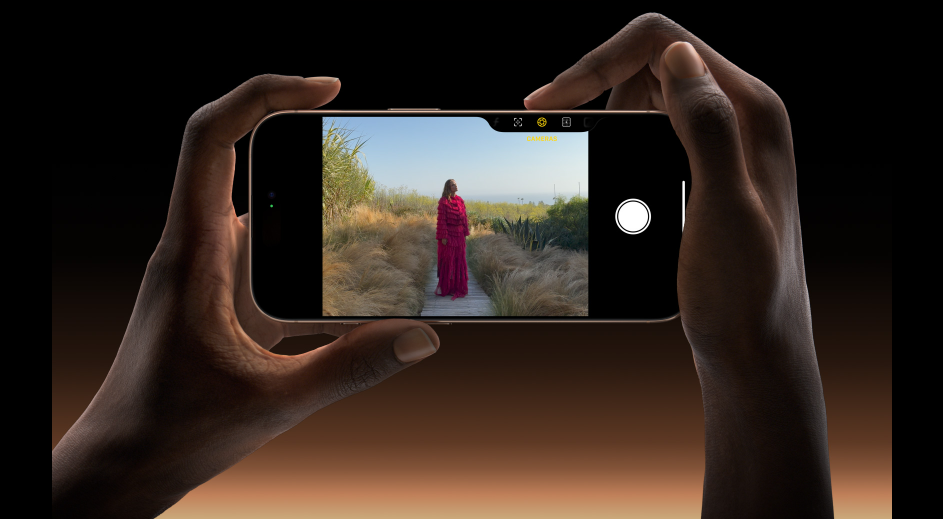
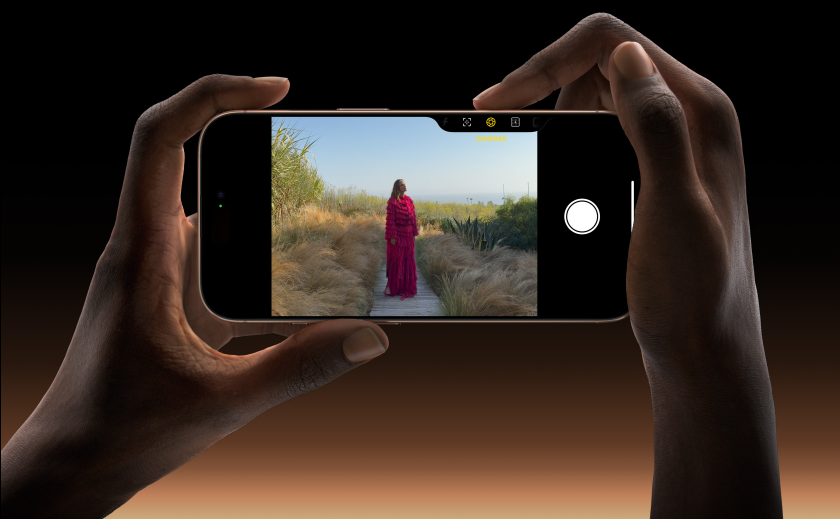
finished th camera control section

Changed region(s): [[0.0, 0.0, 1.0, 1.0], [0.1238, 0.7707, 0.3405, 1.0]]

diff --git a/src/components/CameraControl.jsx b/src/components/CameraControl.jsx
@@ -1,7 +1,128 @@
-import React from "react";
+import { useState } from "react";
+import gsap from "gsap";
+import { FaPlus } from "react-icons/fa6";
+import { IoIosArrowBack, IoIosArrowForward } from "react-icons/io";
+import { cameracontrolImg } from "../utils";
+import { cameraControlSlides } from "../constants";
 
 const CameraControl = () => {
-	return <div>CameraControl</div>;
+	const [imgId, setImgId] = useState(1);
+
+	const handleMove = (i) => {
+		console.log({ imgId, index: i });
+		setImgId(i);
+		gsap.to("#divSlider", {
+			transform:
+				window.innerWidth < 760
+					? `translateX(${-105 * i}%)` // mobile
+					: window.innerWidth < 1200
+					? `translateX(${-102 * i}%)` // tablet
+					: `translateX(${-100 * i}%)`, // laptop
+			duration: 1,
+			ease: "power2.inOut",
+		});
+		console.log({ imgId, index: i });
+	};
+	return (
+		<section className="relative w-full bg-black py-8">
+			<div className="flex justify-center flex-col w-full items-center text-gray-100 text-5xl font-bold lg:text-7xl">
+				<h3>Take total</h3>
+				<h1 className="text-shadow text-center flex items-center justify-center text-white font-normal max-w-[600px]">
+					Camera Control.
+				</h1>
+			</div>
+			<div className="w-full mb-8 mt-20">
+				<img
+					src={cameracontrolImg}
+					alt="camera-control"
+					className="w-full object-cover"
+				/>
+			</div>
+			<div className="text-gray w-9/12 mx-auto flex flex-col justify-between items-start gap-8 my-16 font-semibold text-xl md:flex-row md:gap-24 lg:gap-48">
+				<p className="">
+					Now you can take the perfect photo or video in record time. Camera
+					Control gives you an
+					<span className="font-bold text-white">
+						{" "}
+						easier way to quickly access camera tools.
+					</span>{" "}
+					Simply slide your finger to adjust camera functions like exposure or
+					depth of field, and toggle through each lens or use digital zoom to
+					frame your shot — just how you like it.
+				</p>
+				<p>
+					Later this year, Camera Control will introduce a two-stage shutter
+					that lets you{" "}
+					<span className="text-white font-bold">
+						{" "}
+						automatically lock focus and exposure
+					</span>{" "}
+					with a light press — so you can reframe your shot without losing focus
+					on your subject.
+				</p>
+			</div>
+			<div className="w-full mx-auto flex items-center justify-between gap-4 overflow-x-auto my-12 no-scrollbar relative">
+				{cameraControlSlides.map((slide, i) => (
+					<div
+						id="divSlider"
+						key={i}
+						className={`xl:w-[35vw] h-[650px] max-sm:w-[85vw] max-sm:h-[550px] md:w-[60vw] md:h-[690px] lg:w-[50vw] bg-black shrink-0 rounded-3xl overflow-hidden flex items-center relative ${
+							i === 0 && "max-sm:ml-8 md:ml-32 lg:ml-48"
+						}`}
+					>
+						<img
+							src={slide.img}
+							alt={`slide ${slide.id}`}
+							className="absolute top-0 xl:w-full lg:h-[92vh] lg:w-[50vw] max-sm:h-[60vh] md:h-[55vh] object-cover scale-[1] bg-top rounded-3xl"
+						/>
+						<div className="absolute -bottom-0 w-10/12 h-[85px] mx-auto left-10 text-sm text-white z-[999] md:-bottom-0 lg:-bottom-10 xl:bottom-10">
+							{slide.text.map((text, i) => (
+								<span
+									key={i}
+									className={`text-[17px] mr-2 ${
+										i === 1 && "text-white"
+									} text-gray font-bold`}
+								>
+									{text}
+								</span>
+							))}
+						</div>
+					</div>
+				))}
+			</div>
+
+			<div className="sticky bottom-10 flex justify-center">
+				<div className="bg-gray-300 py-2 px-4 w-72 rounded-full backdrop-blur flex items-center justify-between">
+					<p className="font-semibold text-white">
+						Go deeper on camera control
+					</p>
+					<span className="flex items-center justify-center bg-blue text-white font-bold rounded-full w-8 h-8 text-lg">
+						<FaPlus className="z-10" />
+					</span>
+				</div>
+			</div>
+			<div className="absolute right-10 bottom-20 text-white flex gap-4 text-2xl font-semibold">
+				<button
+					disabled={imgId === 0}
+					onClick={() => handleMove(imgId - 1)}
+					className={`bg-gray p-2 rounded-full text-center cursor-pointer ${
+						imgId === 0 && "opacity-[0.5] pointer-events-none"
+					}`}
+				>
+					<IoIosArrowBack className="cursor-pointer" />
+				</button>
+				<button
+					disabled={imgId === 3}
+					onClick={() => handleMove(imgId + 1)}
+					className={`bg-gray p-2 rounded-full text-center cursor-pointer ${
+						imgId === 3 && "opacity-[0.5] pointer-events-none"
+					}`}
+				>
+					<IoIosArrowForward />
+				</button>
+			</div>
+		</section>
+	);
 };
 
 export default CameraControl;

diff --git a/src/constants/index.js b/src/constants/index.js
@@ -1,4 +1,8 @@
 import {
+	camera1Img,
+	camera2Img,
+	camera3Img,
+	cameracontrolImg,
 	highlightImage1Img,
 	highlightImage2Img,
 	highlightImage3Img,
@@ -91,5 +95,35 @@ export const modelSlides = [
 		text: "6.9” iPhone 16 Pro Max1 & 6.3” iPhone 16 Pro1 in Desert Titanium",
 		img: model5Img,
 		type: "desert",
+	},
+];
+
+export const cameraControlSlides = [
+	{
+		id: 1,
+		text: ["In video mode,", "click to start recording."],
+		img: camera1Img,
+	},
+	{
+		id: 2,
+		text: [
+			"Click to launch the Camera app. Click again to",
+			"instantly take a photo.",
+		],
+		img: camera2Img,
+	},
+	{
+		id: 1,
+		text: ["A light press ", "opens controls like zoom."],
+		img: camera3Img,
+	},
+	{
+		id: 1,
+		text: [
+			"With a double light press, you can",
+			"select another camera setting.",
+			"Then slide to adjust that setting.",
+		],
+		img: cameracontrolImg,
 	},
 ];

diff --git a/src/components/Highlights.jsx b/src/components/Highlights.jsx
@@ -252,7 +252,7 @@ const Highlights = () => {
 					))}
 				</div>
 			</div>
-			<div className="sticky left-[30%] translate-x-[40%] max-sm:translate-x-[10%] z-[999] sticky-div">
+			<div className="sticky left-[30%] translate-x-[40%] max-sm:translate-x-[10%] z-[999]">
 				<div className="flex items-center gap-4">
 					<button className="rounded-full p-4 bg-gray-300 backdrop-blur">
 						<img

diff --git a/src/index.css b/src/index.css
@@ -20,3 +20,10 @@ body {
 	bottom: 10px;
 	transform: translateX(40%);
 }
+
+.text-shadow {
+	text-shadow: -1px -1px 1px white, -1px 1px 1px white, 1px -1px 1px white,
+		1px 1px 1px white, 0 0 3px white, 0 0 10px white, 0 0 20px white,
+		0 0 30px #ff6600, 0 0 40px #ff6600, 0 0 50px #ff6600, 0 0 70px #ff6600,
+		0 0 100px #ff6600;
+}

diff --git a/src/App.jsx b/src/App.jsx
@@ -18,8 +18,8 @@ const App = () => {
 			</div>
 			<Highlights />
 			<CloserLook />
-			{/*<CameraControl />
-			<GetProVideos />
+			<CameraControl />
+			{/*<GetProVideos />
 			<ZoomIn />
 			<Gaming />
 			<KeepExploring />
